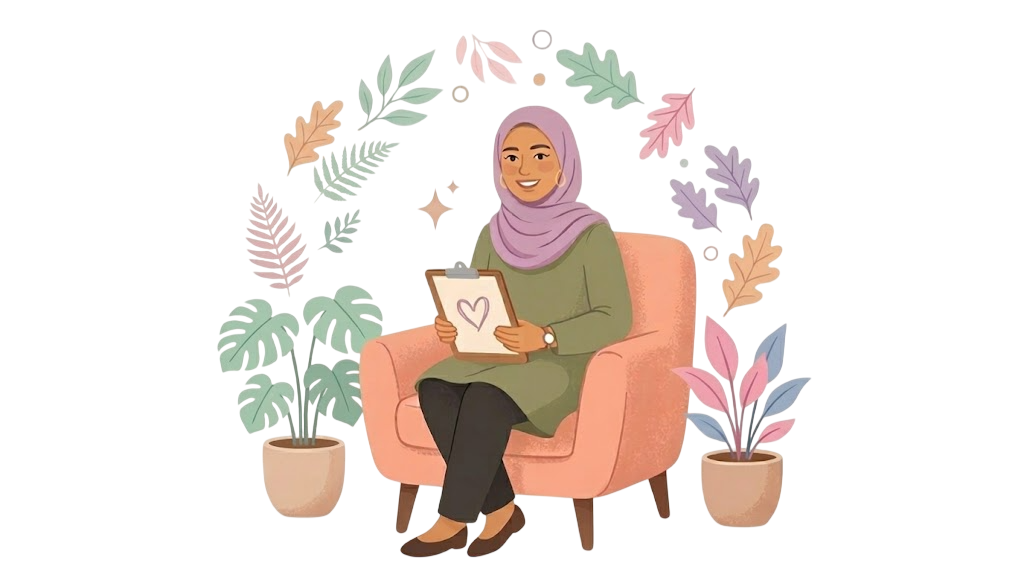
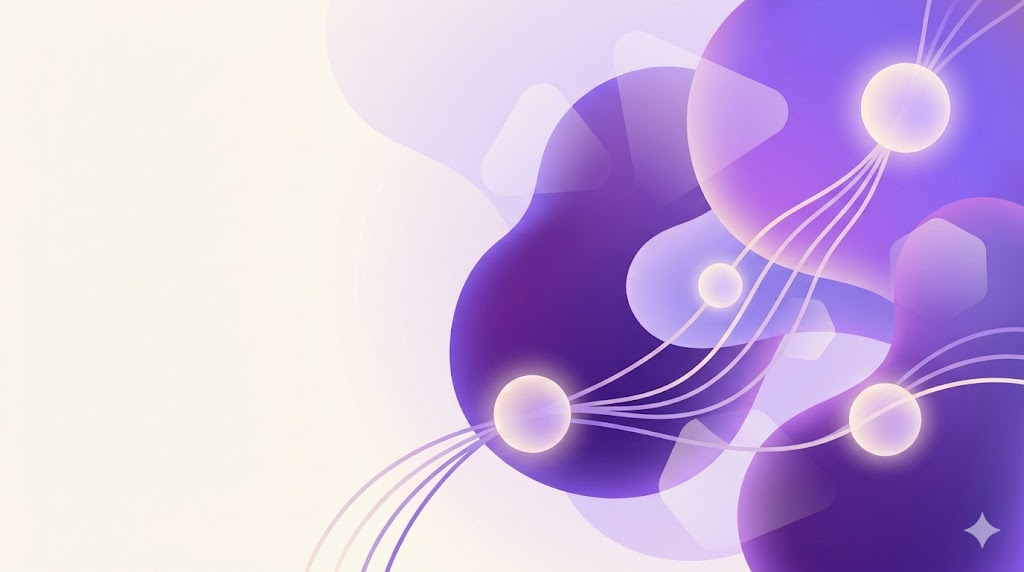
Update CSS for hero image positioning and refine disclaimer text for clarity

diff --git a/frontend/views/counselors.py b/frontend/views/counselors.py
@@ -36,7 +36,7 @@ def inject_styles():
         }
         .dir-hero-content { display: flex; align-items: center; position: relative; z-index: 2; }
         .dir-hero-text { flex: 1; min-width: 0; max-width: 60%; }
-        .dir-hero-image-wrap { position: absolute; top: -48px; bottom: -48px; right: 40px; width: 38%; pointer-events: none; z-index: 1; }
+        .dir-hero-image-wrap { position: absolute; top: -48px; bottom: -48px; right: 0; width: 38%; pointer-events: none; z-index: 1; }
         .dir-hero-img { width: 100%; height: 100%; object-fit: contain; object-position: right center; opacity: 0.9; mix-blend-mode: multiply; -webkit-mask-image: linear-gradient(to right, transparent 0%, rgba(0,0,0,0.5) 30%, black 60%); mask-image: linear-gradient(to right, transparent 0%, rgba(0,0,0,0.5) 30%, black 60%); }
         .dir-eyebrow {
             display: inline-block; font-size: 11px; font-weight: 700; letter-spacing: 0.12em;

diff --git a/frontend/views/matching.py b/frontend/views/matching.py
@@ -315,7 +315,7 @@ def render_disclaimer():
             </svg>
             <span style="font-size:13px; color:#5A5A6E; line-height:1.6;">
                 <strong style="color:#B45309;">Disclaimer:</strong>
-                Compatibility scores are AI-generated estimates based on stated preferences — not clinical assessments. Results should not replace the advice of a qualified mental health professional.
+                Compatibility scores are AI-generated estimates based on your preferences, not clinical assessments. They should not replace advice from a qualified mental health professional.
             </span>
         </div>
         """,
